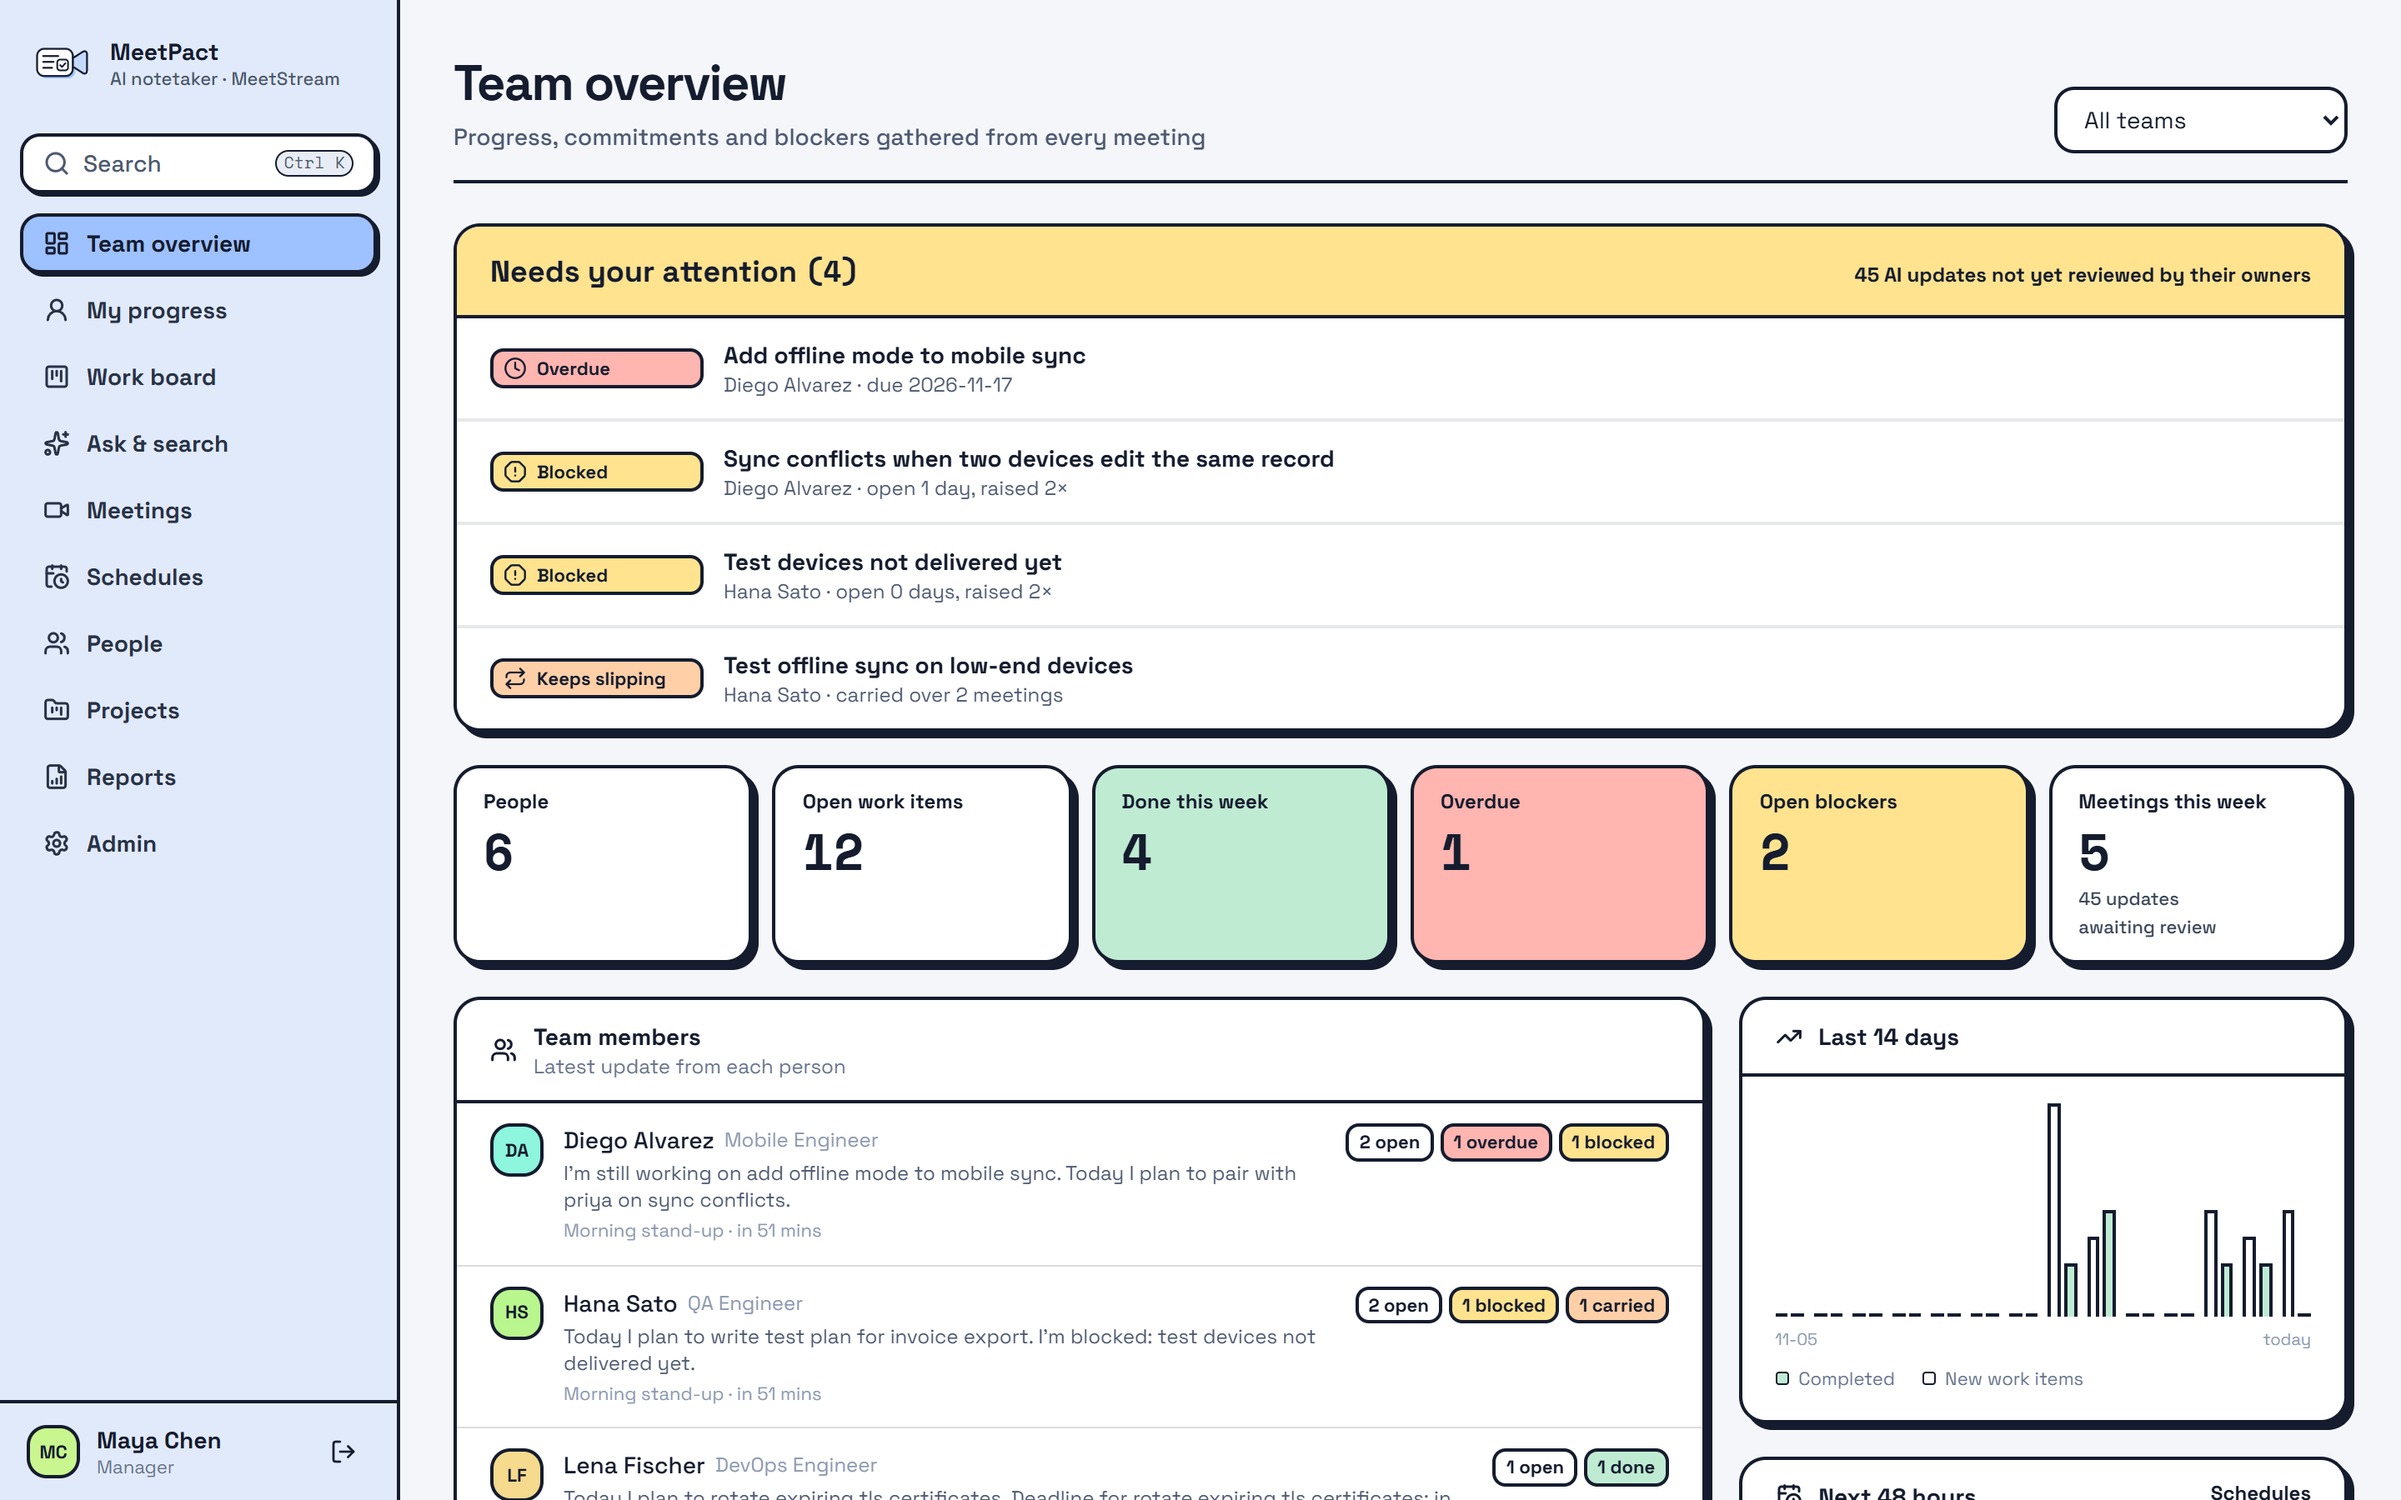
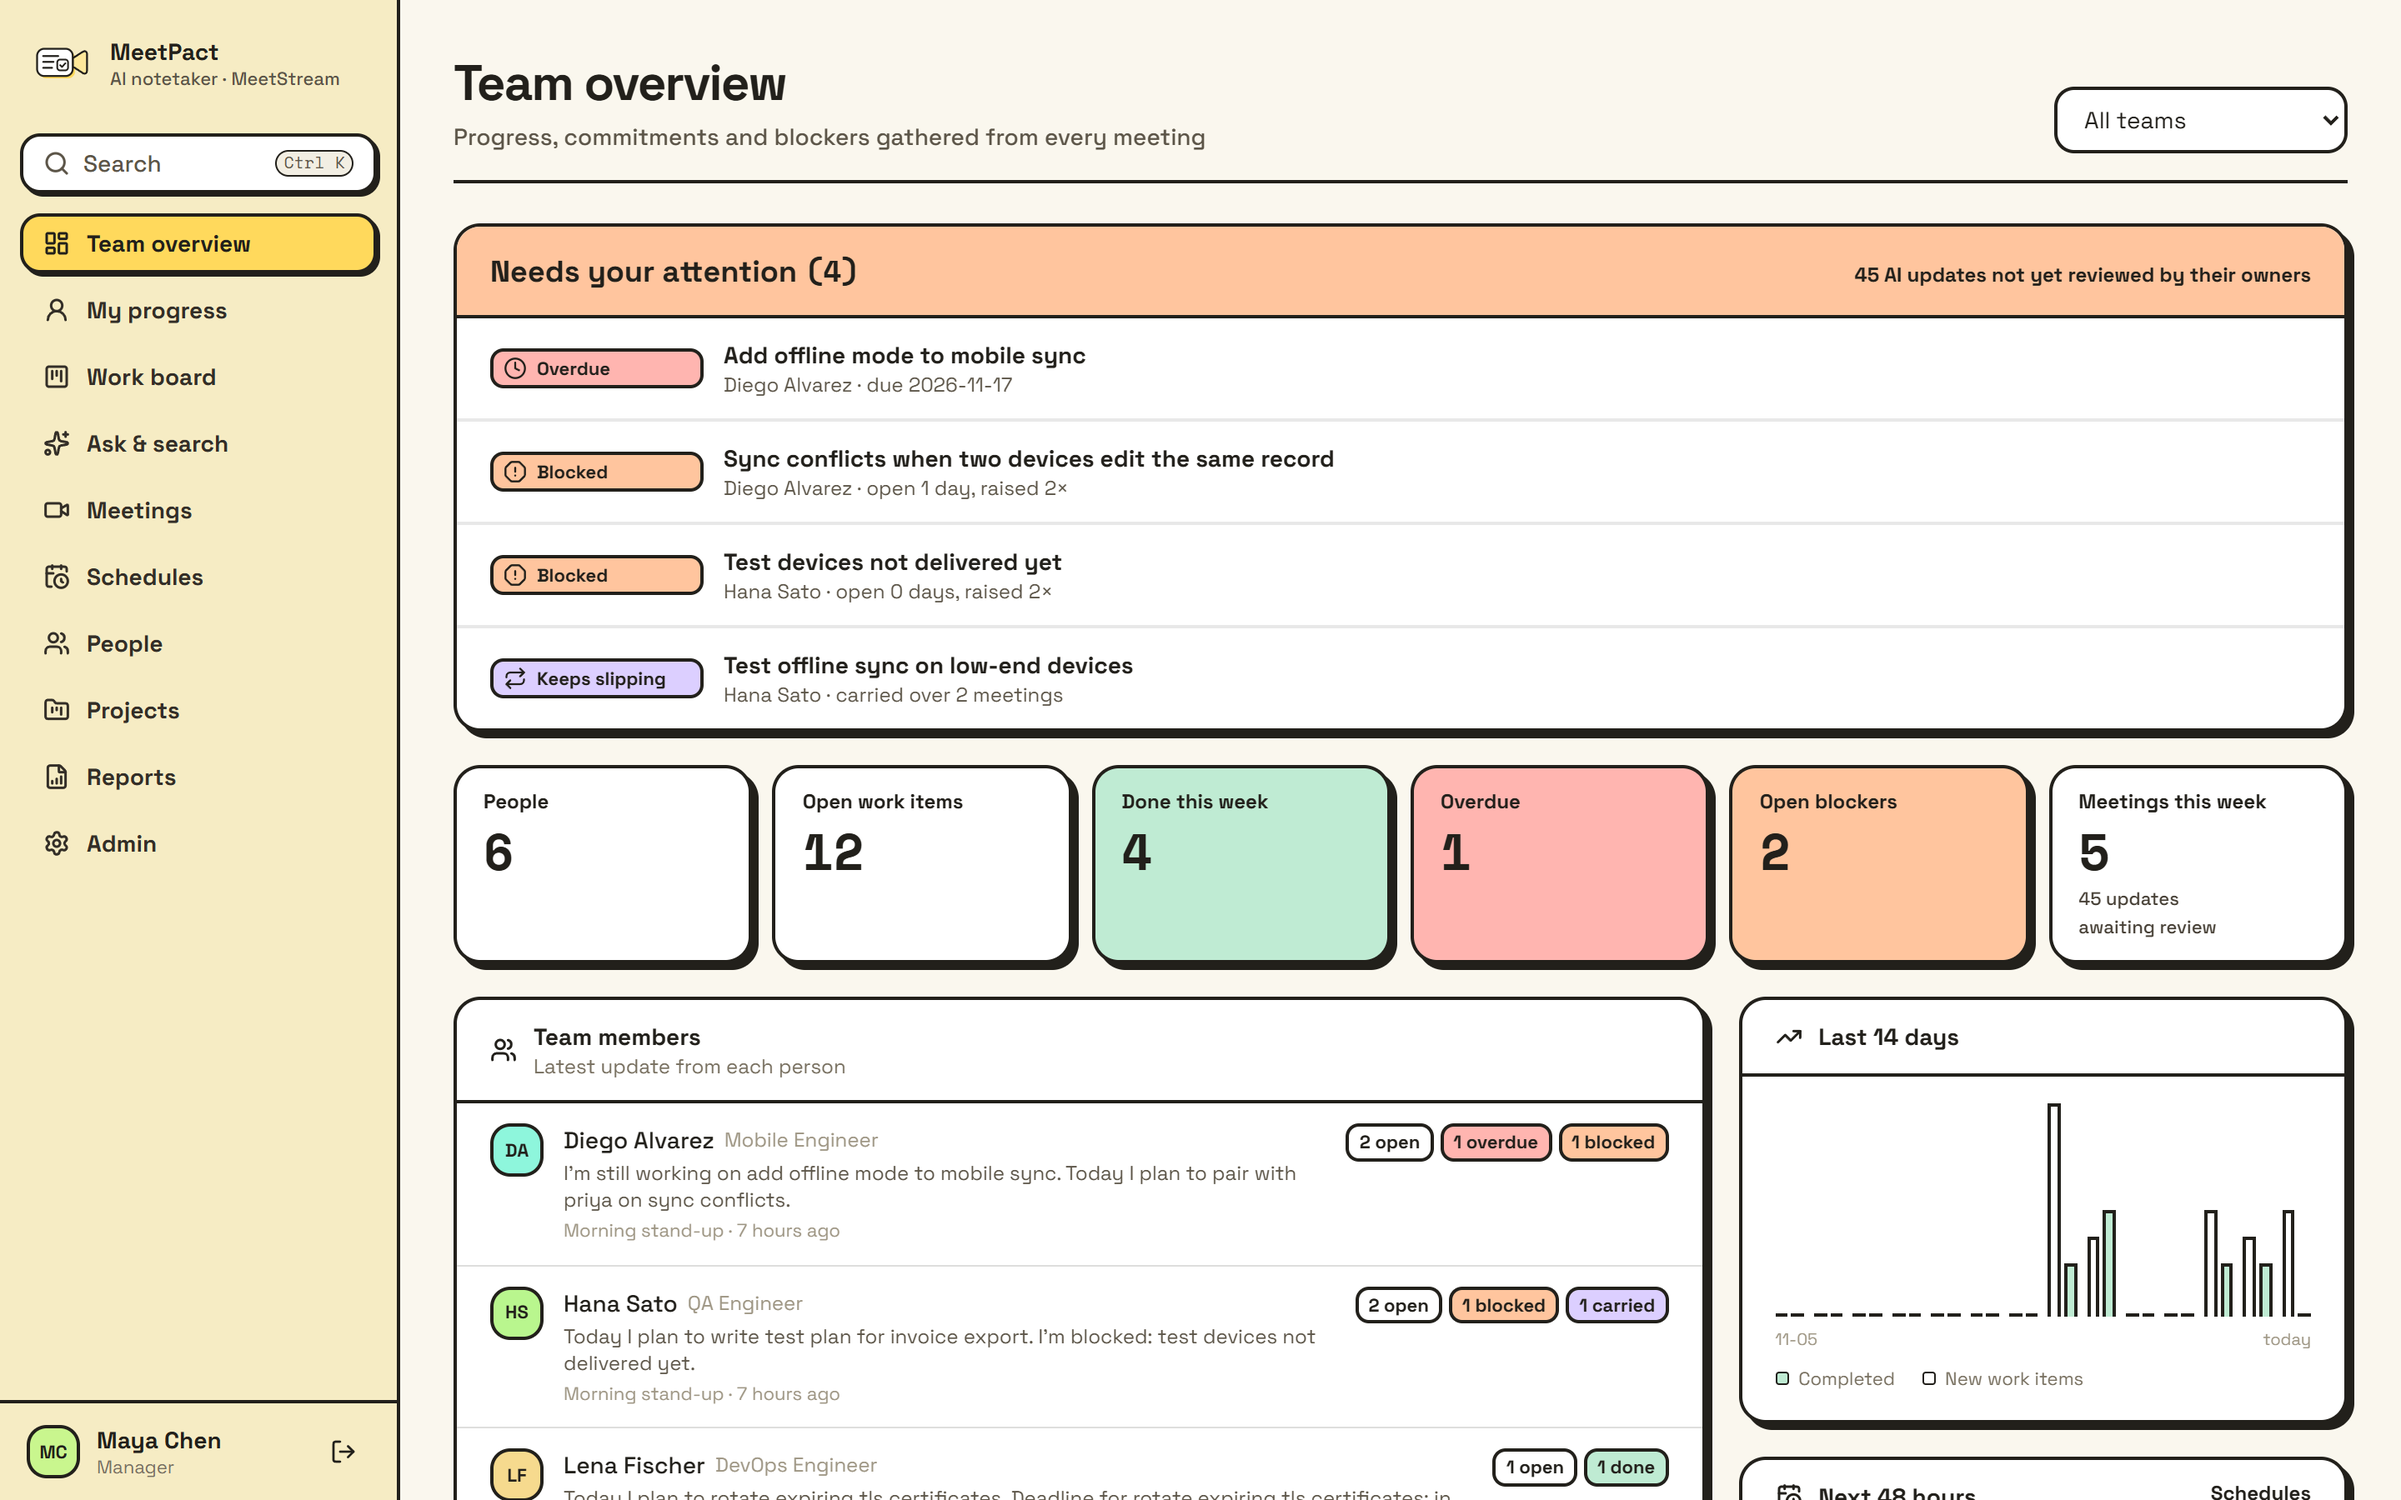
Butter and charcoal palette
Brand colour is butter yellow (#FFD95C) on cream (#FAF7EE) with warm
charcoal ink (#22201B) for text, outlines and offset shadows. With yellow
as the brand, the warning role (blocked / needs attention) moves to peach
and "keeps slipping" to lilac, so statuses stay distinct. Logo, favicon,
social preview, README badges and screenshots updated.

diff --git a/frontend/tailwind.config.js b/frontend/tailwind.config.js
@@ -7,12 +7,12 @@ export default {
         sans: ['"Space Grotesk"', 'ui-sans-serif', 'system-ui', 'sans-serif'],
         mono: ['"Space Mono"', 'ui-monospace', 'SFMono-Regular', 'monospace'],
       },
-      // Soft Swiss-grid neo-brutalism ("Cobalt mist"): hard offset shadows in
-      // deep navy ink, rounded corners, pastel fills, strict grid.
+      // Soft Swiss-grid neo-brutalism ("Butter and charcoal"): hard offset shadows in
+      // warm charcoal ink, rounded corners, pastel fills, strict grid.
       boxShadow: {
-        card: '4px 4px 0 0 #151C2E',
-        lift: '6px 6px 0 0 #151C2E',
-        press: '2px 2px 0 0 #151C2E',
+        card: '4px 4px 0 0 #22201B',
+        lift: '6px 6px 0 0 #22201B',
+        press: '2px 2px 0 0 #22201B',
       },
       borderRadius: {
         DEFAULT: '0.5rem',
@@ -26,13 +26,15 @@ export default {
       },
       animation: { 'fade-up': 'fade-up 280ms cubic-bezier(0.2, 0.8, 0.2, 1) both', shimmer: 'shimmer 1.6s linear infinite' },
       colors: {
-        ink: { 50: '#F4F6FA', 100: '#E8EDF5', 200: '#D5DDEA', 300: '#B7C3D6', 400: '#8B98AF', 500: '#66738B', 600: '#4D5970', 700: '#3A4559', 800: '#283247', 900: '#1C2438', 950: '#151C2E' },
-        brand: { 50: '#EEF4FF', 100: '#E1EAFB', 200: '#C7DAFF', 300: '#9EC1FF', 400: '#77A6F7', 500: '#4F86E8', 600: '#3A6ACB', 700: '#2E54A3', 800: '#26447F', 900: '#1F3662' },
-        // One brand colour (accent: cobalt). Every other pastel has one meaning:
-        // yellow = blocked / needs attention, red = overdue / failed, mint = done,
-        // sky = in progress / info, orange (peach) = keeps slipping.
-        accent: { DEFAULT: '#9EC1FF', soft: '#E1EAFB' },
-        pop: { yellow: '#FFE38F', pink: '#FFC6DA', mint: '#BFEBD3', sky: '#C4E1FF', orange: '#FFD0A8', lilac: '#DCCFFF', red: '#FFB5B0' },
+        ink: { 50: '#FAF7EE', 100: '#F2EEE3', 200: '#E3DDCD', 300: '#C9C1AD', 400: '#9E9684', 500: '#776F5F', 600: '#5C5548', 700: '#463F35', 800: '#332E27', 900: '#29251F', 950: '#22201B' },
+        brand: { 50: '#FFFBEB', 100: '#FFF3C4', 200: '#FFE89A', 300: '#FFD95C', 400: '#F5C633', 500: '#D9A50F', 600: '#B3850A', 700: '#8A650B', 800: '#6B4F0E', 900: '#58420F' },
+        // One brand colour (accent: butter). Every other pastel has one meaning.
+        // The names are roles, not hues: "yellow" is the warning role (blocked /
+        // needs attention, peach here so it never looks like the brand) and
+        // "orange" the keeps-slipping role (lilac); red = overdue / failed,
+        // mint = done, sky = in progress / info.
+        accent: { DEFAULT: '#FFD95C', soft: '#F6ECC4' },
+        pop: { yellow: '#FFC59E', pink: '#FFC6DA', mint: '#BFEBD3', sky: '#C4E1FF', orange: '#DCCFFF', lilac: '#DCCFFF', red: '#FFB5B0' },
         // Readable text versions of the signal colours.
         signal: { red: '#B3261E', amber: '#8A5A00' },
       },

diff --git a/README.md b/README.md
@@ -9,11 +9,11 @@ notes, and carries each person's commitments, progress and blockers forward from
 next. It can also run your stand-up for you, out loud, from the first hello to "I'll leave the meeting now".
 
 [![CI](https://img.shields.io/github/actions/workflow/status/ThalhaAhamed/meetpact/ci.yml?label=CI)](https://github.com/ThalhaAhamed/meetpact/actions)
-![Python](https://img.shields.io/badge/python-3.12%2B-151C2E)
-![Node](https://img.shields.io/badge/node-22%2B-151C2E)
-[![Built on MeetStream](https://img.shields.io/badge/built%20on-MeetStream-9EC1FF)](https://meetstream.ai)
-![Self-hosted](https://img.shields.io/badge/self--hosted-Docker-9EC1FF)
-[![License: MIT](https://img.shields.io/badge/license-MIT-9EC1FF)](LICENSE)
+![Python](https://img.shields.io/badge/python-3.12%2B-22201B)
+![Node](https://img.shields.io/badge/node-22%2B-22201B)
+[![Built on MeetStream](https://img.shields.io/badge/built%20on-MeetStream-FFD95C)](https://meetstream.ai)
+![Self-hosted](https://img.shields.io/badge/self--hosted-Docker-FFD95C)
+[![License: MIT](https://img.shields.io/badge/license-MIT-FFD95C)](LICENSE)
 
 [Quick start](#-quick-start) · [Features](#-features) · [Screenshots](#-screenshots) · [How it works](#-how-it-works) · [Docs](#-documentation) · [FAQ](#-faq)
 
